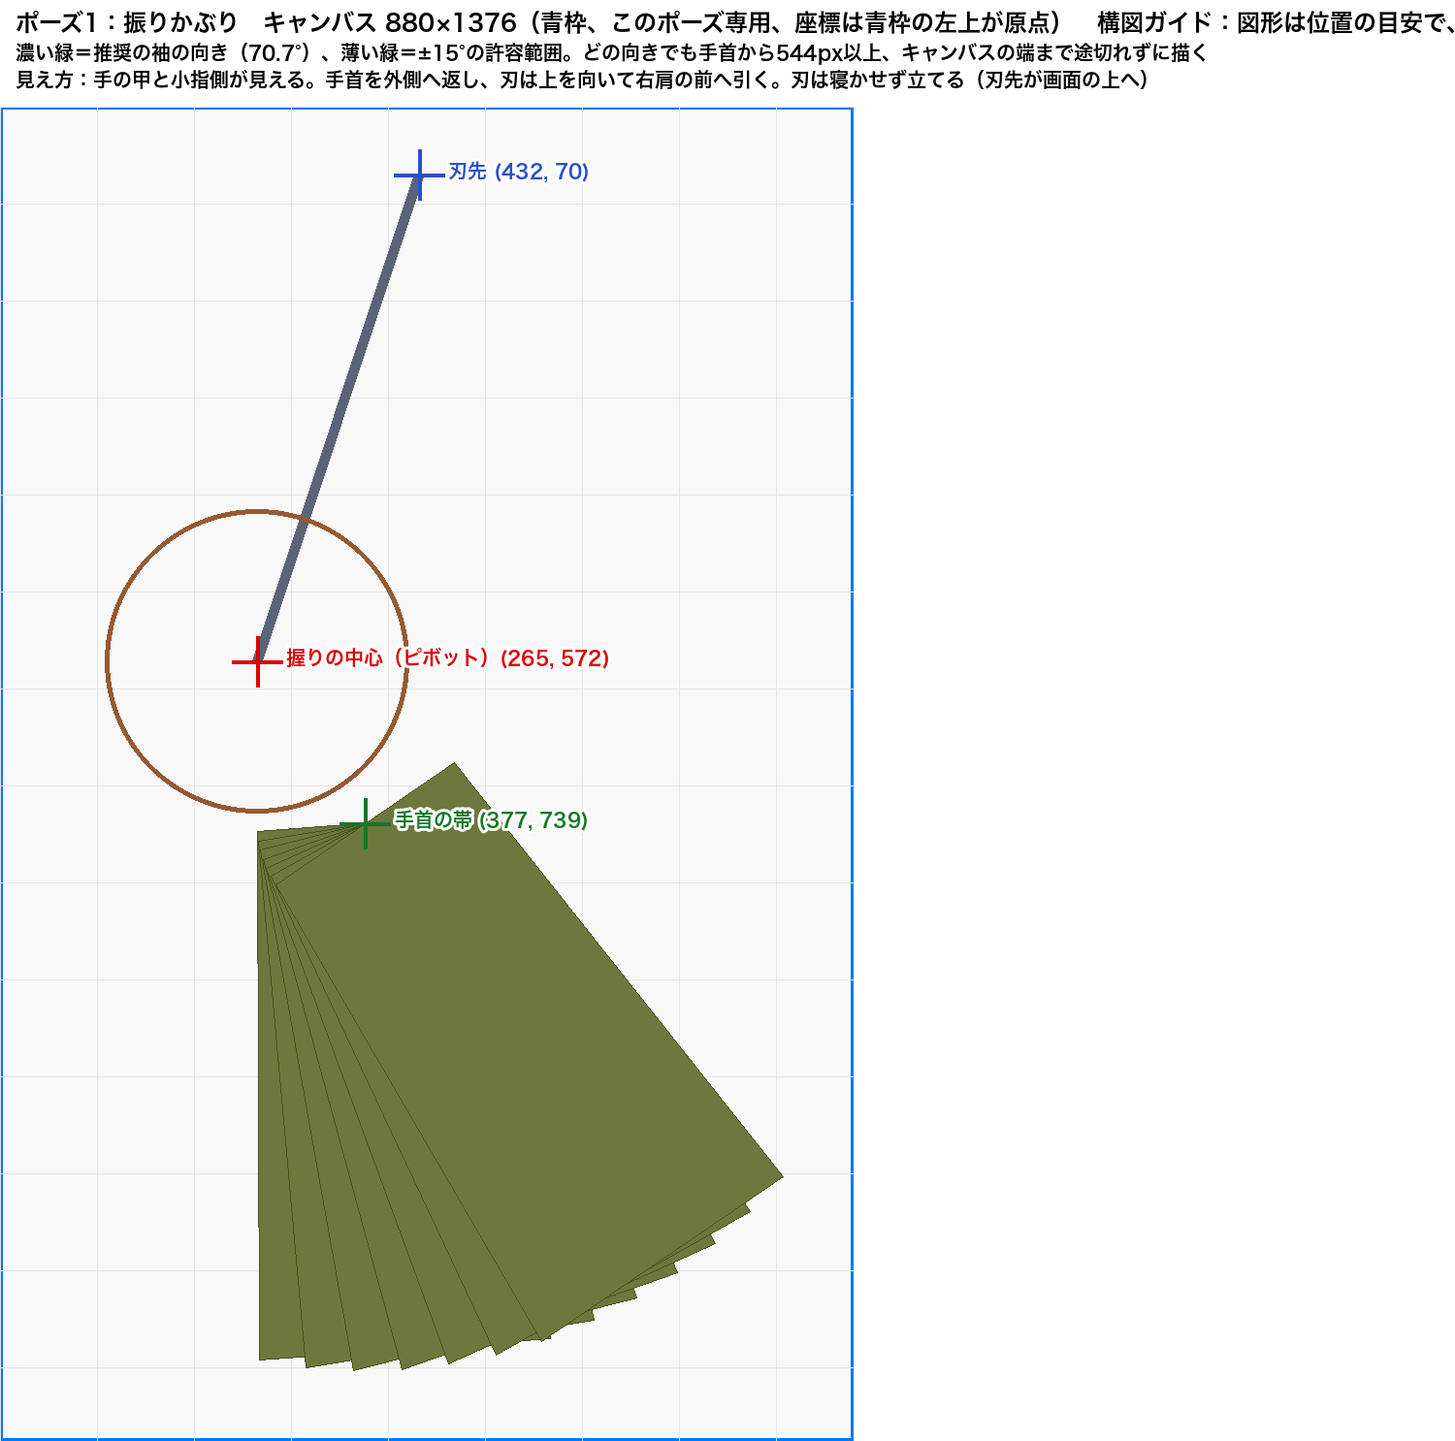
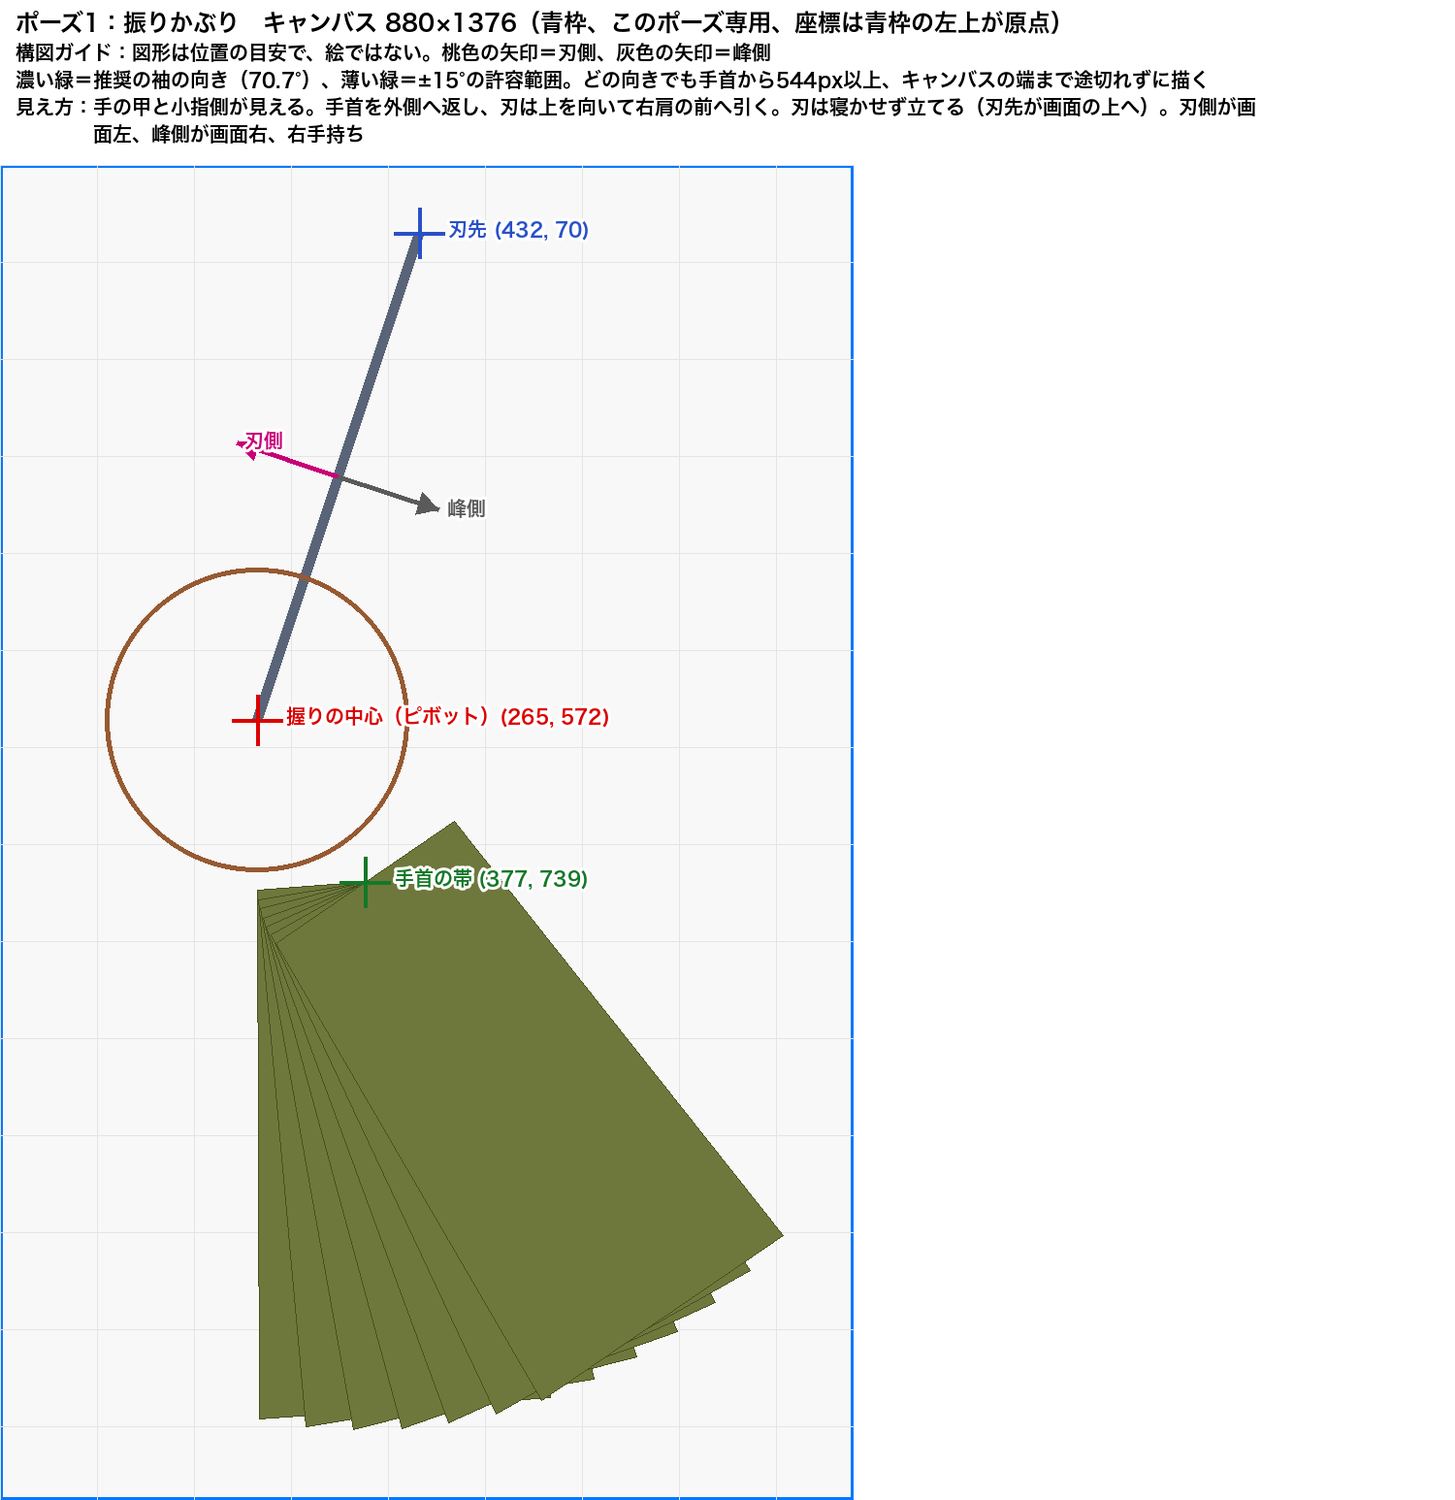
Knife pose 3: standalone request with explicit blade orientation, guides corrected (edge / spine arrows)_20261022_0016

diff --git a/Tools/pixelart/make_knife_pose13_brief.py b/Tools/pixelart/make_knife_pose13_brief.py
@@ -32,7 +32,8 @@ HALF = G.HALF
 SPREAD = range(-15, 16, 5)          # forearm direction variations, degrees
 LENGTH_MARGIN = 0.08                # units added to the worst required length
 CANVAS_MARGIN = 0.05                # units around everything
-HAND_R = 0.14                       # fist radius (units), as the multipose guide
+HAND_R = 0.14
+HEAD_PX = 170                       # header height of the guide image (px)                       # fist radius (units), as the multipose guide
 
 
 def rotate(v, deg):
@@ -122,7 +123,7 @@ def main():
 
         def dpx(q):  # drawing position (canvas drawn below a header)
             x, y = px(q)
-            return x, y + 110
+            return x, y + HEAD_PX
 
         info = {
             "id": p["id"], "name": p["name"], "label": p["label"], "view": p["view"],
@@ -136,7 +137,7 @@ def main():
         }
         report["poses"].append(info)
 
-        HEAD = 110
+        HEAD = HEAD_PX
         img = Image.new("RGBA", (max(W, 1500), H + HEAD), (255, 255, 255, 255))
         dr = ImageDraw.Draw(img, "RGBA")
         dr.rectangle([0, HEAD, W - 1, HEAD + H - 1], fill=(248, 248, 248, 255), outline=(0, 120, 255, 255), width=3)
@@ -150,15 +151,33 @@ def main():
         g, t, w = dpx(p["grip"]), dpx(p["tip"]), dpx(p["wrist"])
         gl, tl, wl = px(p["grip"]), px(p["tip"]), px(p["wrist"])
         dr.line([g, t], fill=(90, 100, 120, 255), width=10)
+        # edge / spine: the edge is the blade direction (grip -> tip) turned 90 deg counter-clockwise on screen (same rule
+        # for the three poses: pose 1 edge left, pose 2 edge down, pose 3 edge down and a little to the right)
+        bd = (p["tip"][0] - p["grip"][0], p["tip"][1] - p["grip"][1])
+        bl = math.hypot(*bd)
+        en = (-bd[1] / bl, bd[0] / bl)
+        mid = dpx(((p["grip"][0] + p["tip"][0]) / 2, (p["grip"][1] + p["tip"][1]) / 2))
+        for sign, lab, col in ((1, "刃側", (200, 0, 120)), (-1, "峰側", (90, 90, 90))):
+            ex, ey = mid[0] + sign * en[0] * 110, mid[1] - sign * en[1] * 110
+            dr.line([mid, (ex, ey)], fill=col + (255,), width=5)
+            dr.polygon([(ex, ey), (ex - sign * en[0] * 22 + en[1] * 12, ey + sign * en[1] * 22 + en[0] * 12),
+                        (ex - sign * en[0] * 22 - en[1] * 12, ey + sign * en[1] * 22 - en[0] * 12)], fill=col + (255,))
+            dr.text((ex + 8, ey - 12), lab, fill=col + (255,), font=f20, stroke_width=3, stroke_fill=(255, 255, 255))
         rr = HAND_R * ppu * 0.8
         dr.ellipse([g[0] - rr, g[1] - rr, g[0] + rr, g[1] + rr], outline=(150, 90, 50, 255), width=5)
         for (x, y), col, lab in ((g, (220, 0, 0), f"握りの中心（ピボット）{tuple(round(v) for v in gl)}"), (t, (40, 80, 200), f"刃先 {tuple(round(v) for v in tl)}"), (w, (20, 120, 40), f"手首の帯 {tuple(round(v) for v in wl)}")):
             dr.line([x - 26, y, x + 26, y], fill=col + (255,), width=4)
             dr.line([x, y - 26, x, y + 26], fill=col + (255,), width=4)
             dr.text((x + 30, y - 14), lab, fill=col + (255,), font=f20, stroke_width=3, stroke_fill=(255, 255, 255))
-        dr.text((16, 10), f"ポーズ{p['id']}：{p['label']}　キャンバス {W}×{H}（青枠、このポーズ専用、座標は青枠の左上が原点）　構図ガイド：図形は位置の目安で、絵ではない", fill=(0, 0, 0, 255), font=font)
-        dr.text((16, 44), f"濃い緑＝推奨の袖の向き（{info['nominalForearmDirectionDeg']}°）、薄い緑＝±15°の許容範囲。どの向きでも手首から{info['minimumSleeveLengthFromWristPx']}px以上、キャンバスの端まで途切れずに描く", fill=(0, 0, 0, 255), font=f20)
-        dr.text((16, 72), f"見え方：{p['view']}", fill=(0, 0, 0, 255), font=f20)
+        dr.text((16, 10), f"ポーズ{p['id']}：{p['label']}　キャンバス {W}×{H}（青枠、このポーズ専用、座標は青枠の左上が原点）", fill=(0, 0, 0, 255), font=font)
+        dr.text((16, 44), "構図ガイド：図形は位置の目安で、絵ではない。桃色の矢印＝刃側、灰色の矢印＝峰側", fill=(0, 0, 0, 255), font=f20)
+        dr.text((16, 72), f"濃い緑＝推奨の袖の向き（{info['nominalForearmDirectionDeg']}°）、薄い緑＝±15°の許容範囲。どの向きでも手首から{info['minimumSleeveLengthFromWristPx']}px以上、キャンバスの端まで途切れずに描く", fill=(0, 0, 0, 255), font=f20)
+        view, lines = p["view"], []
+        while view:
+            lines.append(view[:60])
+            view = view[60:]
+        for i, line in enumerate(lines):
+            dr.text((16, 100 + i * 28), ("見え方：" if i == 0 else "　　　　") + line, fill=(0, 0, 0, 255), font=f20)
         img.convert("RGB").save(os.path.join(out, f"pose{p['id']}_{p['name']}_brief_guide.png"))
 
     with open(os.path.join(out, "pose13_requirements.json"), "w", encoding="utf-8") as f:

diff --git a/Tools/pixelart/make_knife_pose_guide.py b/Tools/pixelart/make_knife_pose_guide.py
@@ -41,11 +41,11 @@ POSES = [
      "forearmWidth": 0.16},
     {"id": 2, "name": "center_pass", "label": "斬撃・中央通過",
      "grip": (0.20, -0.20), "tip": (-0.20, -0.06), "wrist": (0.32, -0.27), "elbowDir": (0.75, -0.65),
-     "view": "拳の親指側と指の背が見える。手首はまっすぐ、刃は左へ水平に近く倒れ、刃先は少し奥（遠近で短く細く）。刃が画面中央を横切る",
+     "view": "拳の親指側と指の背が見える。手首はまっすぐ、刃は左へ水平に近く倒れ、刃先は少し奥（遠近で短く細く）。刃が画面中央を横切る。刃側が下、峰側が上、刃の腹が見える",
      "forearmWidth": 0.17},
     {"id": 3, "name": "follow_through", "label": "振り抜き",
      "grip": (-0.38, -0.30), "tip": (-0.72, -0.40), "wrist": (-0.26, -0.36), "elbowDir": (0.55, -0.85),
-     "view": "手首を内側へ返し、手のひら側と指先が少し見える。刃は左下へ流れ、刃の腹が見える。前腕は画面の下中央へ向かって斜めに横切る",
+     "view": "ポーズ2と同じく手の甲と親指側が見える（手のひらは見せない＝握り直さない）。手首を左下へ振り下ろし、刃先は左やや下、刃側が下（少し右下）、峰側が上、刃の腹が見える。前腕は画面の下中央へ向かって斜めに横切る",
      "forearmWidth": 0.18},
 ]
 

diff --git a/docs/review/player-parts/knife/slash/pose13-brief/pose3_request.md b/docs/review/player-parts/knife/slash/pose13-brief/pose3_request.md
@@ -1,0 +1,72 @@
+# 画像制作AI向け依頼文：ナイフ ポーズ3「振り抜き」（2026-10-22）
+
+ポーズ3だけを依頼するための、単独で使える依頼文。数値は `pose13_requirements.json`（`Tools/pixelart/make_knife_pose13_brief.py`）と同じ。
+
+## 添付するファイルと役割
+
+| ファイル | 役割 |
+| --- | --- |
+| `/Users/hashimoto/vscode/_game/DEADLOCK/DEADLOCK-Since-1988/docs/review/player-parts/knife/slash/pose13-brief/pose3_follow_through_brief_guide.png` | **構図ガイド**（必須）。キャンバス・握り・刃先・手首・袖の範囲・刃側と峰側の矢印 |
+| `/Users/hashimoto/vscode/_game/DEADLOCK/DEADLOCK-Since-1988/docs/review/player-parts/knife/slash/pose13-brief/pose3_orientation_reference.png` | **刃の向きの参照図**。待機 → ポーズ1 → ポーズ2 → ポーズ3で、刃側・峰側がどうつながるか |
+| `/Users/hashimoto/vscode/_game/DEADLOCK/DEADLOCK-Since-1988/Assets/Game/Art/Weapons/Knife/knife_candidate.png` | **画風・配色の基準**（待機）。グローブ・手首の帯・袖・ナイフの色とデザイン |
+| `/Users/hashimoto/vscode/_game/DEADLOCK/DEADLOCK-Since-1988/Assets/Game/Art/Weapons/Knife/Poses/knife_pose2_center_pass_extended.png` | **直前のポーズの基準**（ポーズ2）。握り方・見える面・配色・刃の向き。ポーズ3はこの続き |
+| `/Users/hashimoto/vscode/_game/DEADLOCK/DEADLOCK-Since-1988/Assets/Game/Art/Weapons/Knife/Poses/knife_pose1_windup_v3.png` | **補助の参考**（ポーズ1）。ナイフ・手の大きさと画風だけ。グローブが明るすぎるので、**配色の基準にはしない** |
+| `/Users/hashimoto/vscode/_game/DEADLOCK/DEADLOCK-Since-1988/docs/review/player-parts/knife/slash/multipose_timeline.png` | 参考：3ポーズの時間割（どの時間に表示されるか） |
+
+## 完成画像の保存先
+
+`/Users/hashimoto/vscode/_game/DEADLOCK/DEADLOCK-Since-1988/Assets/Game/Art/Weapons/Knife/Poses/knife_pose3_follow_through.png`
+
+## 依頼文
+
+```text
+一人称視点のゲームで、右手に持ったコンバットナイフで右から左へ横に斬り抜けた直後の「振り抜き」のポーズを1枚描いてください。
+添付の待機画像（knife_candidate.png）と、直前のポーズ（knife_pose2_center_pass_extended.png）の続きの絵です。
+
+■ キャンバス
+- 1384×1096 ピクセル、背景は透明（PNG）。半透明のピクセルは使わない。
+- この寸法のまま描く。拡大・縮小しない。余白を切り詰めない。キャンバスを広げない。
+- 座標は左上が原点、右がx、下がy。添付の構図ガイドと同じ位置に描く。
+
+■ 位置（構図ガイドの十字の位置）
+- 拳の中心（柄を握っている所）：(544, 265)。拳はキャンバスの上寄り、左右の中央より少し左。
+- 刃先：(70, 404) 付近。拳から見て画面の左、やや下。刃はほぼ横向きで、左へ向かって少し下がる（水平から約16°下向き）。
+- 手首の帯：(711, 349) 付近。拳の右、やや下。
+
+■ 刃の向き（ここが一番大事）
+- 刃先は画面の左（やや下）を向く。
+- 刃側（研いだ刃のふち）は画面の下を向く（ほんの少し右下）。
+- 峰側（刃の背）は画面の上を向く。
+- 直前のポーズ2と同じく、刃の平らな面（刃の腹と溝）がこちらに見える。刃を真横から薄く見せない。
+- ポーズ2では刃先が左やや上、刃側が下だった。ポーズ3はその刃を、手首を左下へ振り下ろしてそのまま傾けた形。刃をひっくり返したり、持ち替えたりしない。
+
+■ 手と手首
+- 右手で持つ。握り方はポーズ2と同じ（柄を握り込み、刃は親指側から前へ出る）。握り直したように見せない。
+- 主に見えるのは、ポーズ2と同じ手の甲と親指側。手のひらは見せない。
+- 手首は、斬り抜けた勢いで左下へ曲がっている。
+
+■ 袖
+- 袖は手首から画面の右下へ伸びる（水平から約57°下向き。構図ガイドの濃い緑。±15°までの範囲ならよい）。
+- 手首から655ピクセル以上、キャンバスの下端・右端まで途切れずに描く（向きどおりなら、先端の目安は (1067, 899) 付近で、さらに端まで）。
+- 袖は1枚で描き切る。後から継ぎ足したような継ぎ目や、太さの変わる輪郭を作らない。
+- 前腕は画面の下中央へ向かって、斜めに横切って見える。
+
+■ 画風・配色・大きさ
+- 待機画像・ポーズ2と同じピクセルアート。黒い太い輪郭線（約9〜12ピクセル）、少ない色数の段階的な陰影。ぼかし・グラデーション・ノイズなし。
+- ナイフ・手・袖の大きさは、待機画像・ポーズ2と同じ（拡大・縮小しない）。
+- ナイフの刃・溝・鍔・柄・柄頭の形とデザインは、待機画像・ポーズ2のまま。
+- グローブは待機画像・ポーズ2と同じ茶色の革。同じ素材に見える色相・彩度と明部の色で、段階的な陰影を残す（目安の色：暗部 #6e3e24、中間 #8f522e、明部 #9d5931）。ポーズ1（v3）のグローブは明るすぎるので、まねしない。
+- 手首の帯は同じ暗い灰、袖は同じオリーブの迷彩。
+
+■ 描かないもの
+- 背景、床、影、文字、ガイドの線や十字、動きの残像やエフェクト、2本目の手やナイフ。
+
+保存名：knife_pose3_follow_through.png（1384×1096、透明背景）
+```
+
+## 依頼前に確認したこと
+
+- **ガイドの矛盾の訂正**：以前のガイドと依頼文には「手首を内側へ返し、手のひら側と指先が少し見える」と「刃の腹が見える」が並んでいた。前向きの握りでは刃側は指先と同じ側を向くので、手のひらが見えるほど手首を返すと、刃は刃のふちしか見えない。ポーズ2から握り直したようにも見える。そこで「ポーズ2と同じく手の甲と親指側、手首を左下へ振り下ろす、刃側が下、峰側が上、刃の腹が見える」に揃えた（`Tools/pixelart/make_knife_pose_guide.py` の説明文、ガイド画像、`pose13_requirements.json` の `view`）。
+- **刃側の規則**：3ポーズとも「握りから刃先への向きを、画面上で反時計回りに90°回した側」が刃側になる。ポーズ1は左、ポーズ2は下、ポーズ3は下（少し右下）。ガイドの矢印は、この規則で描いた。
+- **袖の範囲**：時間割でポーズ3を表示する33サンプル × 3画面比（iPhone 16 Pro・16:9・iPad 4:3）の実際の位置・回転で、袖の切り口が画面に出ない長さを計算し、向きが±15°ずれた場合も含めて655pxとした（`pose13_requirements.json`）。表示時間は、命中時間帯の後40%（0.192〜0.24秒）と、戻りの前半（0.24〜0.338秒、画面の下へ沈む）。
+- **寸法を守る理由**：ポーズ1 v3はキャンバスが指定の1.14倍で届いた。手とナイフの大きさは同じだったので使えたが、位置の確認をやり直す必要があった。今回は寸法どおりに依頼する。

diff --git a/docs/review/player-parts/knife/slash/pose13-brief/README.md b/docs/review/player-parts/knife/slash/pose13-brief/README.md
@@ -2,6 +2,8 @@
 
 **訂正（2026-10-21）**：ポーズ1の刃の向きを「刃先が上、刃側が画面左、峰側が画面右、右手持ち」と確定し、依頼文と表に追記した（それまでは刃側・峰側の指定がなかった）。ポーズ1の修正版 v3 の検証は `../pose1-review/README.md`。
 
+**訂正（2026-10-22）**：ポーズ3の見え方を、「手首を内側へ返し、手のひら側と指先が少し見える」から「ポーズ2と同じく手の甲と親指側、刃側が下・峰側が上」に直した。手のひらが見えるほど手首を返すと、「刃の腹が見える」と両立せず、握り直しにも見えるため。ポーズ3だけの単独の依頼文は `pose3_request.md`、刃の向きの参照図は `pose3_orientation_reference.png`。ガイドに刃側・峰側の矢印を追加した。
+
 複数ポーズ案（`../README_multipose.md`）の残り2枚の制作依頼。ポーズ2（中央通過）は袖延長版で配置成立（`../pose2-review/extended/README.md`。継ぎ目は既知の見た目の課題として保持、画風・攻撃全体は未承認）。
 
 ## ポーズ2で分かったことと、今回の変更点
@@ -41,7 +43,7 @@
 | 袖の向き | 推奨：手首から右下へ（水平から約57°下向き）。±15°まで可 |
 | 袖の長さ | 手首から**655px以上**、キャンバスの下端・右端まで途切れずに描く（推奨の向きなら先端は (1067, 899) 付近、さらに端まで） |
 | 表示する時間 | 命中時間帯の後40%（0.192〜0.24秒）と、戻りの前半（0.24〜0.338秒、画面の下へ沈む） |
-| 見え方 | 手首を内側へ返し、手のひら側と指先が少し見える。刃は左下へ流れ、刃の腹が見える。前腕は画面の下中央へ向かって斜めに横切る |
+| 見え方 | ポーズ2と同じく手の甲と親指側が見える（手のひらは見せない＝握り直さない）。手首を左下へ振り下ろし、刃先は左やや下、**刃側が下（少し右下）、峰側が上**、刃の腹が見える。前腕は画面の下中央へ向かって斜めに横切る（2026-10-22訂正） |
 | 構図ガイド | `pose3_follow_through_brief_guide.png` |
 
 ガイドの濃い緑＝推奨の袖の向き、薄い緑＝±15°の許容範囲、茶の円＝拳の大きさの目安、灰の線＝刃の向き。**図形は位置の目安で、完成した絵ではない**。
@@ -71,7 +73,8 @@
 【ポーズ3：振り抜き】保存名 knife_pose3_follow_through.png
 - キャンバス 1384×1096 ピクセル（横長）。座標は左上が原点、右がx、下がy。
 - 拳の中心（柄を握っている所）を (544, 265) に置く。
-- 右から左へ振り抜いた後。手首を内側へ返し、手のひら側と指先が少し見える。刃は左下へ流れ、刃の腹が見える。刃先は (70, 404) 付近。
+- 右から左へ振り抜いた後。ポーズ2と同じく手の甲と親指側が見え、手のひらは見せない。手首を左下へ振り下ろす。刃先は (70, 404) 付近で左やや下、刃側は下、峰側は上、刃の腹が見える。
+  （ポーズ3だけを依頼するときは、より詳しい `pose3_request.md` を使う）
 - 手首の帯は (711, 349) 付近。袖は手首から右下へ斜めに、手首から655ピクセル以上、キャンバスの下端・右端まで描く。
 ```
 

diff --git a/docs/review/player-parts/knife/slash/pose1-review/README.md b/docs/review/player-parts/knife/slash/pose1-review/README.md
@@ -44,11 +44,16 @@
 
 | 点 | 種類 | 対応案 |
 | --- | --- | --- |
-| 4:3で刃先と拳が右端からはみ出す | **表示位置の調整で対応できる** | 画面が狭いときにポーズ1を左へ寄せる（例：4:3で約0.06単位。腰だめの `hipRightEdgeFollowNarrow` と同じ考え方）。ゲームへ組み込むときに設定する |
+| 4:3で刃先と拳が右端からはみ出す | **表示位置の調整で対応できる** | 画面が狭いときにポーズ1を左へ寄せる（腰だめの `hipRightEdgeFollowNarrow` と同じ考え方）。ゲームへ組み込むときに設定する。※下の注 |
 | グローブが明るい（0.46、ほかは0.35〜0.37） | **色の補正で対応できる**（描き直しは不要） | グローブの範囲のマスクを作り、立ち絵のグローブと同じ方法（`recolor_mask_shift.py`）で明るさをそろえた派生画像を作る。元画像は保持する |
 | 袖の向きが指定より寝ている（約47°） | 修正不要 | 切断面は全時点で画面外で、見た目も自然 |
 | キャンバスが指定の1.14倍 | 修正不要 | 手とナイフの描かれた大きさは同じで、表示倍率を変えずに使える。握りの位置は実画像の値を使う |
 | 描き直しが必要な点 | なし | — |
+
+**※ 4:3の調整量について**：今回の計算では、2048×1536（4:3）で刃先側が最大64px（画像の画素）はみ出し、約0.046単位にあたった。約0.06単位はこれに少し余裕を足した**例**である。
+- 単位はビューモデルのカメラ空間（z=1、画面の縦の半分＝tan25°≒0.466単位、横の半分＝0.466×画面比）。
+- 握りの位置は時間割の設計値 (0.58, −0.16) に右端追従（`rightEdgeFollow` 0.5）を加えた位置で、表示倍率は1300px／画面の高さ。
+- 画面比・端末・表示倍率・握りの位置が変われば必要な量も変わる。**ほかの解像度へそのまま当てはめる確定仕様ではない**。組み込むときに、各画面比で計算し直して決める。
 
 ## 4. 資料
 
